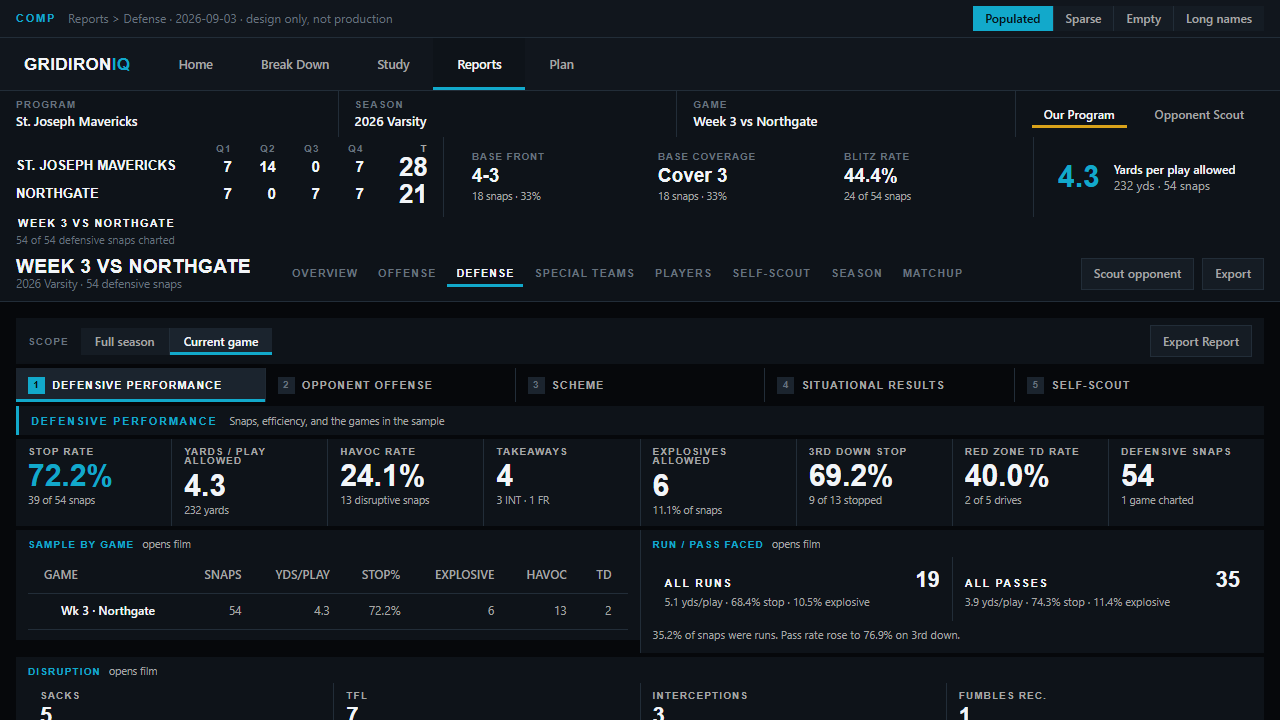
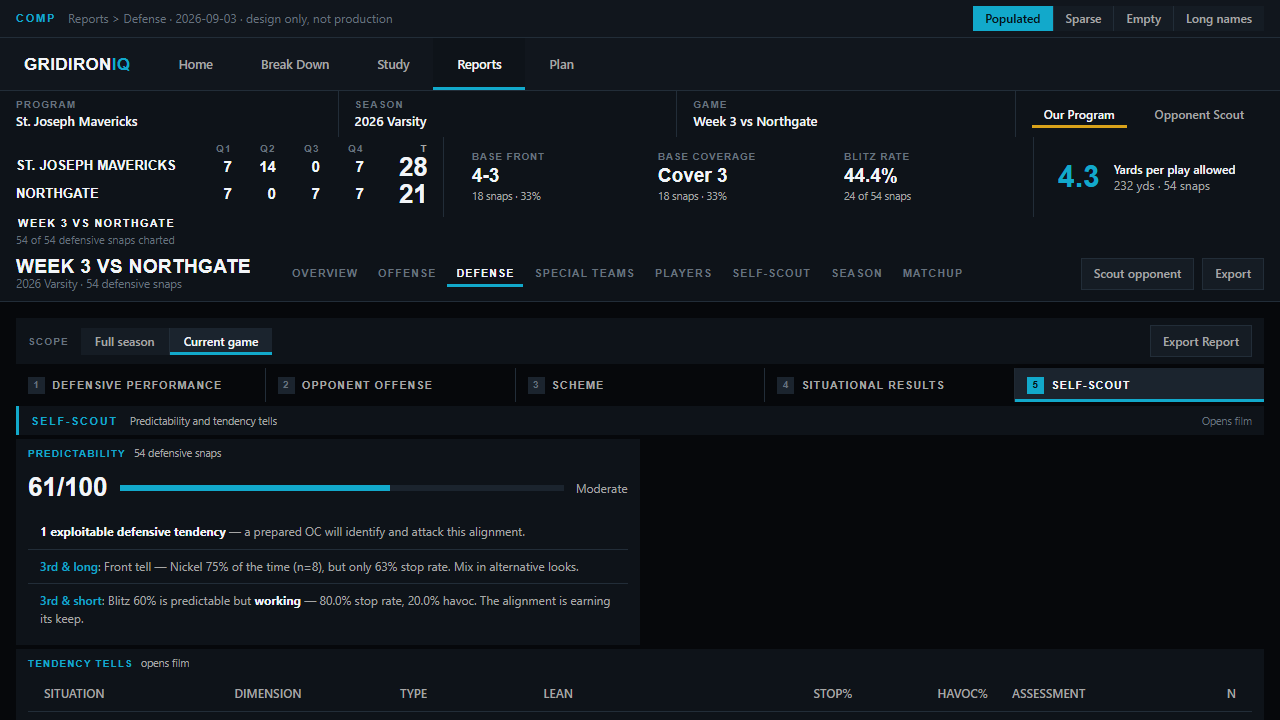
fix: Codex corrections 1-4 on the Defense comp
1 · Two production metrics were missing, and the rationale wrongly claimed
complete retention. Coverage lost total Yds (production: Coverage, #, Comp,
Inc, INT, Sack, Yds, Avg, Stop%) and Scheme by situation lost Avg Yds
(production ddRows ends with avgYds). Both restored in each scope, and the
mapping table corrected -- it had asserted "all nine columns" while rendering
eight.

2 · Game-scope blitz havoc contradicted itself. The aggregate row said 29.2%
of 24 while Disruption said 25.0%, 6 of 24. The blitz rows carry 4 + 2 + 1 = 7
havoc snaps, so 29.2% was right and the tile was wrong; the tile now reads
29.2%, 7 of 24. Season scope was already consistent at 18 of 72. Per Codex the
aggregate is relabelled "All blitzes" -- literal for blitz-tagged snaps --
and counts distinct plays rather than summed multi-tag rows.

3 · The five section captures had identical hashes and proved nothing. The
comp was fine: the tabs switch correctly, verified directly. The capture
script was still scrolling to an anchor, which with tabs leaves the same
section on screen every time. It now clicks the tab AND asserts that exactly
one section rule is visible and that it is the requested one, so a silent
mismatch fails loudly. Five distinct hashes at 1440 and at 1280.

4 · Superseded instructions removed from the rationale. It still described
scroll-spy navigation, the KPI band as two rows of four, Disruption in section
[…]

diff --git a/design-comps/reports-defense-2026-09-03/defense.html b/design-comps/reports-defense-2026-09-03/defense.html
@@ -450,7 +450,7 @@ tbody tr.cut:focus-visible td:first-child::before{opacity:1}
       <section class="mod">
         <header><strong>Coverage</strong><span>shell</span></header>
         <div class="twrap"><table>
-          <thead><tr><th>Coverage</th><th>Snaps</th><th>Comp</th><th>Inc</th><th>INT</th><th>Sack</th><th>Avg</th><th>Stop%</th></tr></thead>
+          <thead><tr><th>Coverage</th><th>Snaps</th><th>Comp</th><th>Inc</th><th>INT</th><th>Sack</th><th>Yds</th><th>Avg</th><th>Stop%</th></tr></thead>
           <tbody id="tCoverages"></tbody>
         </table></div>
       </section>
@@ -485,7 +485,7 @@ tbody tr.cut:focus-visible td:first-child::before{opacity:1}
       <section class="mod">
         <header><strong>Scheme by situation</strong><span>top call per bucket</span></header>
         <div class="twrap"><table>
-          <thead><tr><th>Situation</th><th>Snaps</th><th class="tl">Top front</th><th class="tl">Top coverage</th><th>Blitz%</th><th>Stop%</th><th>Havoc%</th></tr></thead>
+          <thead><tr><th>Situation</th><th>Snaps</th><th class="tl">Top front</th><th class="tl">Top coverage</th><th>Blitz%</th><th>Stop%</th><th>Havoc%</th><th>Avg yds</th></tr></thead>
           <tbody id="tSchemeSit"></tbody>
         </table></div>
       </section>
@@ -577,14 +577,14 @@ const SEASON = {
     ['4-2-5', 12, '3 / 9', 71, '5.9', '58.3%', '16.7%'],
   ],
   coverages: [
-    ['Cover 3', 58, 24, 13, 3, 4, '4.9', '65.5%'], ['Cover 1', 41, 18, 9, 2, 3, '5.2', '61.0%'],
-    ['Quarters', 33, 12, 10, 2, 2, '4.4', '69.7%'], ['Cover 2', 27, 13, 6, 0, 2, '5.6', '59.3%'],
-    ['Cover 0', 15, 6, 4, 0, 3, '5.8', '60.0%'],
+    ['Cover 3', 58, 24, 13, 3, 4, 284, '4.9', '65.5%'], ['Cover 1', 41, 18, 9, 2, 3, 213, '5.2', '61.0%'],
+    ['Quarters', 33, 12, 10, 2, 2, 145, '4.4', '69.7%'], ['Cover 2', 27, 13, 6, 0, 2, 151, '5.6', '59.3%'],
+    ['Cover 0', 15, 6, 4, 0, 3, 87, '5.8', '60.0%'],
   ],
   pressure: [
     ['No pressure', 102, 4, '14.7%', '5.4', '60.8%'], ['Edge', 34, 6, '26.5%', '4.6', '67.6%'],
     ['Mike', 22, 3, '27.3%', '4.5', '68.2%'], ['Nickel', 16, 1, '18.8%', '5.1', '62.5%'],
-    ['All pressure', 72, 10, '25.0%', '4.7', '66.7%'],
+    ['All blitzes', 72, 10, '25.0%', '4.7', '66.7%'],
   ],
   pressMeta: '41.4% blitz rate · 72 snaps',
   frontSit: [['4-3', 44, '40.0%', 18, '28.1%'], ['Nickel', 17, '15.5%', 31, '48.4%'],
@@ -599,7 +599,7 @@ const SEASON = {
   disruption: [
     ['Sacks', '14', '96 yds'], ['TFL', '20', 'behind the line'], ['Interceptions', '7', 'on 114 pass snaps'],
     ['Fumbles rec.', '4', 'of 6 forced'], ['Forced inc.', '42', '36.8% of passes'],
-    ['Blitz havoc', '25.0%', '18 of 72 pressures'], ['3-and-outs', '9', 'of 31 drives'],
+    ['Blitz havoc', '25.0%', '18 of 72 blitz snaps'], ['3-and-outs', '9', 'of 31 drives'],
     ['Havoc snaps', '34', '19.5% rate'],
   ],
   ident: [['Base front','4-3','62 snaps · 36%'],['Base coverage','Cover 3','58 snaps · 33%'],['Blitz rate','41.4%','72 of 174 snaps']],
@@ -612,12 +612,12 @@ const SEASON = {
     ['3rd & short', 'Blitz 59% is predictable but <b>working</b> — 70.6% stop rate, 17.6% havoc. The alignment is earning its keep.'],
   ],
   schemeSit: [
-    ['1st & 10', 68, '4-3 44%', 'Cover 3 38%', '32.4%', '62.2%', '17.6%'],
-    ['2nd & short', 21, 'Bear 43%', 'Cover 1 38%', '47.6%', '66.7%', '19.0%'],
-    ['2nd & long', 31, 'Nickel 52%', 'Quarters 39%', '38.7%', '61.3%', '19.4%'],
-    ['3rd & short', 17, 'Bear 47%', 'Cover 1 41%', '58.8%', '70.6%', '17.6%'],
-    ['3rd & long', 25, 'Nickel 78%', 'Cover 3 44%', '56.0%', '56.0%', '28.0%'],
-    ['Red zone', 17, 'Bear 41%', 'Cover 1 71%', '52.9%', '58.8%', '23.5%'],
+    ['1st & 10', 68, '4-3 44%', 'Cover 3 38%', '32.4%', '62.2%', '17.6%', '5.4'],
+    ['2nd & short', 21, 'Bear 43%', 'Cover 1 38%', '47.6%', '66.7%', '19.0%', '4.1'],
+    ['2nd & long', 31, 'Nickel 52%', 'Quarters 39%', '38.7%', '61.3%', '19.4%', '5.6'],
+    ['3rd & short', 17, 'Bear 47%', 'Cover 1 41%', '58.8%', '70.6%', '17.6%', '3.1'],
+    ['3rd & long', 25, 'Nickel 78%', 'Cover 3 44%', '56.0%', '56.0%', '28.0%', '5.4'],
+    ['Red zone', 17, 'Bear 41%', 'Cover 1 71%', '52.9%', '58.8%', '23.5%', '2.9'],
   ],
   tells: [
     ['3rd & long', 'Front', 'Alignment', 'Nickel', 78, '56.0%', '28.0%', 'exploitable', 25],
@@ -658,14 +658,14 @@ const GAME = {
     ['4-2-5', 3, '1 / 2', 11, '3.7', '66.7%', '33.3%'],
   ],
   coverages: [
-    ['Cover 3', 18, 7, 5, 1, 2, '4.0', '72.2%'], ['Cover 1', 13, 5, 3, 1, 1, '4.4', '69.2%'],
-    ['Quarters', 11, 4, 4, 1, 1, '3.6', '81.8%'], ['Cover 2', 8, 4, 2, 0, 0, '5.1', '62.5%'],
-    ['Cover 0', 4, 2, 1, 0, 1, '4.8', '75.0%'],
+    ['Cover 3', 18, 7, 5, 1, 2, 72, '4.0', '72.2%'], ['Cover 1', 13, 5, 3, 1, 1, 57, '4.4', '69.2%'],
+    ['Quarters', 11, 4, 4, 1, 1, 40, '3.6', '81.8%'], ['Cover 2', 8, 4, 2, 0, 0, 41, '5.1', '62.5%'],
+    ['Cover 0', 4, 2, 1, 0, 1, 19, '4.8', '75.0%'],
   ],
   pressure: [
     ['No pressure', 30, 1, '16.7%', '4.7', '70.0%'], ['Edge', 12, 3, '33.3%', '3.6', '75.0%'],
     ['Mike', 8, 1, '25.0%', '4.0', '75.0%'], ['Nickel', 4, 0, '25.0%', '4.3', '75.0%'],
-    ['All pressure', 24, 4, '29.2%', '3.8', '75.0%'],
+    ['All blitzes', 24, 4, '29.2%', '3.8', '75.0%'],
   ],
   pressMeta: '44.4% blitz rate · 24 snaps',
   frontSit: [['4-3', 13, '38.2%', 5, '25.0%'], ['Nickel', 5, '14.7%', 11, '55.0%'],
@@ -680,7 +680,7 @@ const GAME = {
   disruption: [
     ['Sacks', '5', '34 yds'], ['TFL', '7', 'behind the line'], ['Interceptions', '3', 'on 35 pass snaps'],
     ['Fumbles rec.', '1', 'of 2 forced'], ['Forced inc.', '14', '40.0% of passes'],
-    ['Blitz havoc', '25.0%', '6 of 24 pressures'], ['3-and-outs', '4', 'of 10 drives'],
+    ['Blitz havoc', '29.2%', '7 of 24 blitz snaps'], ['3-and-outs', '4', 'of 10 drives'],
     ['Havoc snaps', '13', '24.1% rate'],
   ],
   ident: [['Base front','4-3','18 snaps · 33%'],['Base coverage','Cover 3','18 snaps · 33%'],['Blitz rate','44.4%','24 of 54 snaps']],
@@ -691,11 +691,11 @@ const GAME = {
     ['3rd & short', 'Blitz 60% is predictable but <b>working</b> — 80.0% stop rate, 20.0% havoc. The alignment is earning its keep.'],
   ],
   schemeSit: [
-    ['1st & 10', 21, '4-3 43%', 'Cover 3 38%', '33.3%', '76.2%', '19.0%'],
-    ['2nd & long', 10, 'Nickel 50%', 'Quarters 40%', '40.0%', '70.0%', '30.0%'],
-    ['3rd & short', 5, 'Bear 60%', 'Cover 1 40%', '60.0%', '80.0%', '20.0%'],
-    ['3rd & long', 8, 'Nickel 75%', 'Cover 3 38%', '62.5%', '62.5%', '37.5%'],
-    ['Red zone', 5, 'Bear 40%', 'Cover 1 60%', '60.0%', '60.0%', '20.0%'],
+    ['1st & 10', 21, '4-3 43%', 'Cover 3 38%', '33.3%', '76.2%', '19.0%', '4.6'],
+    ['2nd & long', 10, 'Nickel 50%', 'Quarters 40%', '40.0%', '70.0%', '30.0%', '4.8'],
+    ['3rd & short', 5, 'Bear 60%', 'Cover 1 40%', '60.0%', '80.0%', '20.0%', '2.6'],
+    ['3rd & long', 8, 'Nickel 75%', 'Cover 3 38%', '62.5%', '62.5%', '37.5%', '4.6'],
+    ['Red zone', 5, 'Bear 40%', 'Cover 1 60%', '60.0%', '60.0%', '20.0%', '2.2'],
   ],
   tells: [
     ['3rd & long', 'Front', 'Alignment', 'Nickel', 75, '62.5%', '37.5%', 'exploitable', 8],

diff --git a/design-comps/reports-defense-2026-09-03/RATIONALE.md b/design-comps/reports-defense-2026-09-03/RATIONALE.md
@@ -18,10 +18,10 @@ Offense runs six zones on a **12-column** rhythm because its KPI band is six
 tiles. Defense's performance band is **eight** values, and eight tiles cannot
 sit on a 12-column grid without a ragged last row.
 
-Defense therefore runs its own **4-column rhythm**: the KPI band is eight tiles
-in two rows of four, so its rules fall at 25 / 50 / 75%, and every band below
-divides at 50% or on those same three lines. It is internally consistent, and
-it is Defense's rhythm rather than Offense's forced onto it.
+Defense therefore runs its own rhythm: the KPI band is **eight tiles across in
+one row**, and every band below divides at 50%, which lands on that band's own
+centre rule. An earlier pass used two rows of four; it stretched each tile to
+~350px of mostly empty panel.
 
 Five sections, not six, and named for what a defensive coach is looking for:
 
@@ -33,9 +33,10 @@ Five sections, not six, and named for what a defensive coach is looking for:
 | 4 | Situational results | Down, distance, field position, and disruption |
 | 5 | Self-scout | Predictability and tendency tells |
 
-Section navigation is included because the report is long — production Defense
-is 4,575px at 1440 and the comp is comparable. It is the same scroll-spy
-control Offense uses.
+The five sections are a **TAB STRIP**: one section on screen at a time.
+Production Defense is a single 4,575px page at 1440, and as scroll anchors the
+five read as one undifferentiated report. This is a deliberate departure from
+Offense, which scrolls one continuous page — see decision 8.
 
 ---
 
@@ -56,15 +57,15 @@ accounted for. **Nothing was dropped to make the composition fit.**
 | Best Calls — `emptyAnswers` disclosure line | §2 note under the table | Retained verbatim in intent; wording tightened (see §5). |
 | **Game Trend** — `defGameColumns` table | §1 "Sample by game" | Retained. Moved to §1: the games charted *are* the sample, and the prompt asks the report to open with performance and sample context. |
 | **Situational Defense** — `defSitColumns` table | §4 "Situational defense" | Retained with all six columns. |
-| **Scheme Detail → Defensive Analytics** — havoc gauge + 7 stat cards | §4 "Disruption" | All values retained as film-clickable tiles. The gauge is dropped as a *drawing*; its number (havoc rate) is already a §1 KPI and appears again as a tile. See §4 decisions. |
+| **Scheme Detail → Defensive Analytics** — havoc gauge + 7 stat cards | §1 "Disruption" | All values retained as film-clickable tiles. The gauge is dropped as a *drawing*; its number (havoc rate) is already a §1 KPI and appears again as a tile. See §4 decisions. |
 | Scheme Detail — **Defensive Front Breakdown** | §3 "Front" | Retained, all seven columns. |
-| Scheme Detail — **Coverage Breakdown** | §3 "Coverage" | Retained, all nine columns. |
-| Scheme Detail — **Blitz Analysis** | §3 "Pressure" | Retained. Gains an `All pressure` aggregate row — a real total over the blitz rows, not a new metric. |
+| Scheme Detail — **Coverage Breakdown** | §3 "Coverage" | Retained, all nine columns including total Yds. |
+| Scheme Detail — **Blitz Analysis** | §3 "Pressure" | Retained. Gains an `All blitzes` aggregate row — a real total over the blitz-tagged snaps, not a new metric. |
 | Scheme Detail — **Early Downs / Passing Downs** front tables | §3 "Front by situation" | Retained. The two side-by-side tables become one table with an early-downs and a passing-downs column pair, which is the comparison the coach is actually making. |
 | **Defensive Self-Scout** — predictability meter | §5 "Predictability" | Retained. |
 | Defensive Self-Scout — `recommendations` | §5 "Predictability" | Retained, all four `DefRecommendation` kinds represented (exploitable-summary, exploitable-item, exploitable-more, dominant). |
 | Defensive Self-Scout — **Defensive Tendency Tells** table | §5 "Tendency tells" | Retained, all eight columns, including the lean bar and the verdict. Full width — it is the widest table in the report and the only one that earns it. |
-| Defensive Self-Scout — **Scheme by Situation** (`ddRows`) | §5 "Scheme by situation" | Retained. |
+| Defensive Self-Scout — **Scheme by Situation** (`ddRows`) | §4 "Scheme by situation" | Retained, with its Avg yds column. Moved beside Situational defense — see decision 10. |
 | Film activation on every row / tile / answer | Throughout | Retained. Every row that carries refs in production is a `cut` row here with hover, keyboard focus and a hand pointer. |
 | Top-level empty state | Empty state | Redesigned — see §6. |
 
@@ -106,14 +107,19 @@ Each team is now a row — name, four quarters, total — which is the box-score
 convention and answers all three at once. Score position is still structural:
 the four quarter columns and the total column are fixed and equal, so a score
 cannot move for a name length or for a 1-, 2- or 3-digit value. The name
-column is bounded on its own and truncates with the full value in a tooltip.
+column is sized to the longest name and **never truncates or wraps** — the
+scorebug's regions flow, so if they cannot share one row the bug becomes two
+rows rather than cutting a word.
 
 Measured across populated and long-name / three-digit states:
 
-| Width | Both totals | Quarter header |
+| Width | Both totals (populated) | Both totals (long names, 3-digit) |
 |---|---|---|
-| 1440 | 540 | 16 |
-| 1280 | 332 | 16 |
+| 1440 | 364 | 548 |
+| 1280 | 364 | 548 |
+
+ The pair moves together with the name column and stays in ONE track, which is
+ the property that matters: neither score can move independently of the other.
 
 **Both team rows carry the same weight and ink.** An earlier pass bolded our
 team and dimmed the opponent; that spends legibility restating what the score
@@ -130,9 +136,9 @@ six columns across 1,400px. In the comp:
 - Opponent play type (6 rows) ‖ Best call by play type (5 rows)
 - Front (5 rows) ‖ Coverage (5 rows)
 - Pressure (5 rows) ‖ Front by situation (5 rows)
-- Situational defense (7 rows) ‖ Disruption (8 tiles, 4 × 2)
-- Predictability (meter + 5 recommendations) ‖ Scheme by situation (6 rows)
-- Tendency tells — full width, 8 columns
+- Disruption — full width, 8 tiles in four columns (section 1)
+- Situational defense (7 rows) ‖ Scheme by situation (6 rows)
+- Predictability (meter + 5 recommendations) ‖ Tendency tells (5 rows, 8 columns)
 
 Measured result: **zero modules fall more than 40px short of their band** at
 1920, 1440 and 1280, in every state.
@@ -246,7 +252,8 @@ Captures:
    places and gains a film action. Confirm the arc is not wanted.
 4. **`Early Downs` and `Passing Downs` merge** into one `Front by situation`
    table with paired columns instead of two side-by-side tables.
-5. **`Pressure` gains an `All pressure` total row.** It is a real aggregate,
+5. **`Pressure` gains an `All blitzes` total row.** It is a real aggregate over
+   blitz-tagged snaps, counted as distinct plays,
    but it is a row production does not currently render.
 6. **The two empty-state and disclosure strings** are rewritten per §5.
 8. **The section nav is a TAB STRIP, not Offense's scroll-spy.** Five sections

diff --git a/CLAUDE.md b/CLAUDE.md
@@ -412,7 +412,8 @@ Non-negotiable:
   the RATIONALE is where the production-to-comp mapping and the open approval
   decisions are recorded, including any deliberate divergence from an already
   accepted screen. **Reviewing a comp means reading its RATIONALE** -- a
-  divergence stated only in chat or only in a commit body is not recorded.- Commit at every baton pass. One builder and one independent reviewer per
+  divergence stated only in chat or only in a commit body is not recorded.
+- Commit at every baton pass. One builder and one independent reviewer per
   increment; documentation and the handoff are updated before the baton passes.
 - **Working tree:** never `git add -A` or `git add .`. Stage named paths. Never
   reset, clean, stash, or absorb another agent's uncommitted work — this repo
